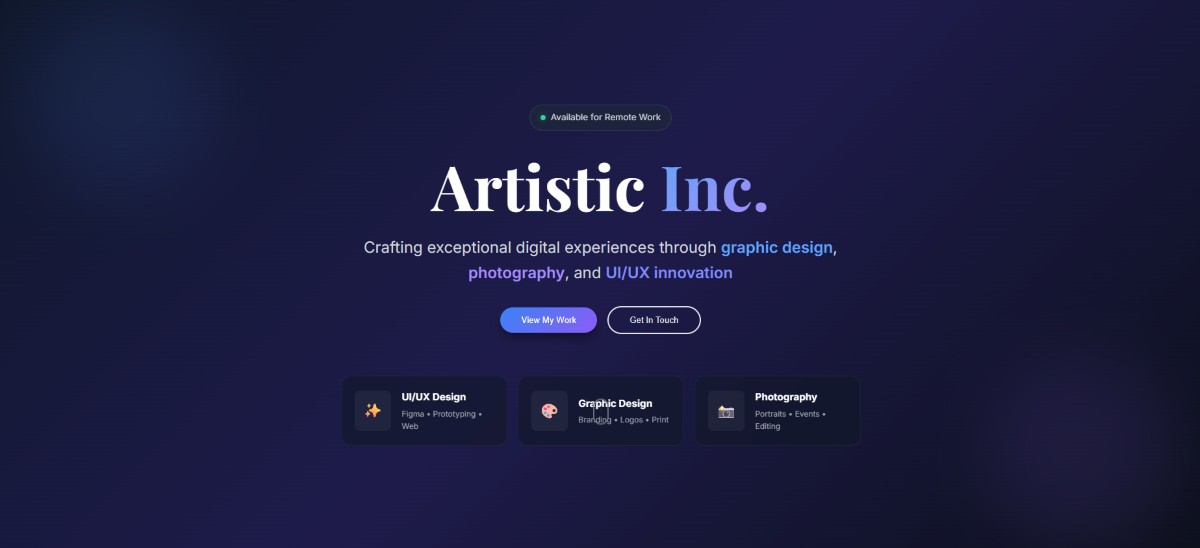
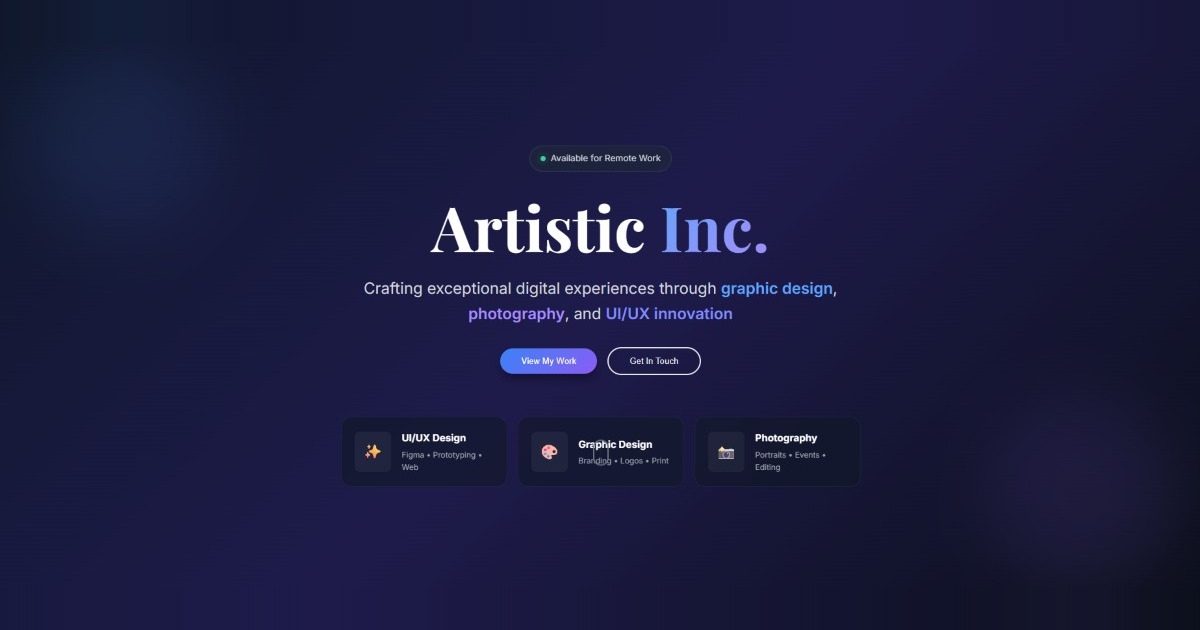
Pad the social preview to 1200x630
artistic-preview.jpg was 1200x548, a 2.19 ratio against the 1.91:1 that
Facebook, LinkedIn and WhatsApp expect, so previews were letterboxed.

Padded 41px top and bottom by stretching the outermost pixel row in each
direction -- the hero's ground is a horizontal gradient that barely
changes row to row, so the extension is seamless and not one original
pixel is resampled or cropped. Updated og:image:height to match.

diff --git a/index.html b/index.html
@@ -29,7 +29,7 @@
     <meta property="og:image:secure_url" content="https://arttistic.online/assets/img/artistic-preview.jpg">
     <meta property="og:image:type" content="image/jpeg">
     <meta property="og:image:width" content="1200">
-    <meta property="og:image:height" content="548">
+    <meta property="og:image:height" content="630">
     <meta property="og:image:alt" content="Artistic Inc. - portfolio of Joel Duker, designer and photographer in Accra">
     <meta property="og:site_name" content="Artistic Inc.">
     <meta property="og:locale" content="en_GB">
